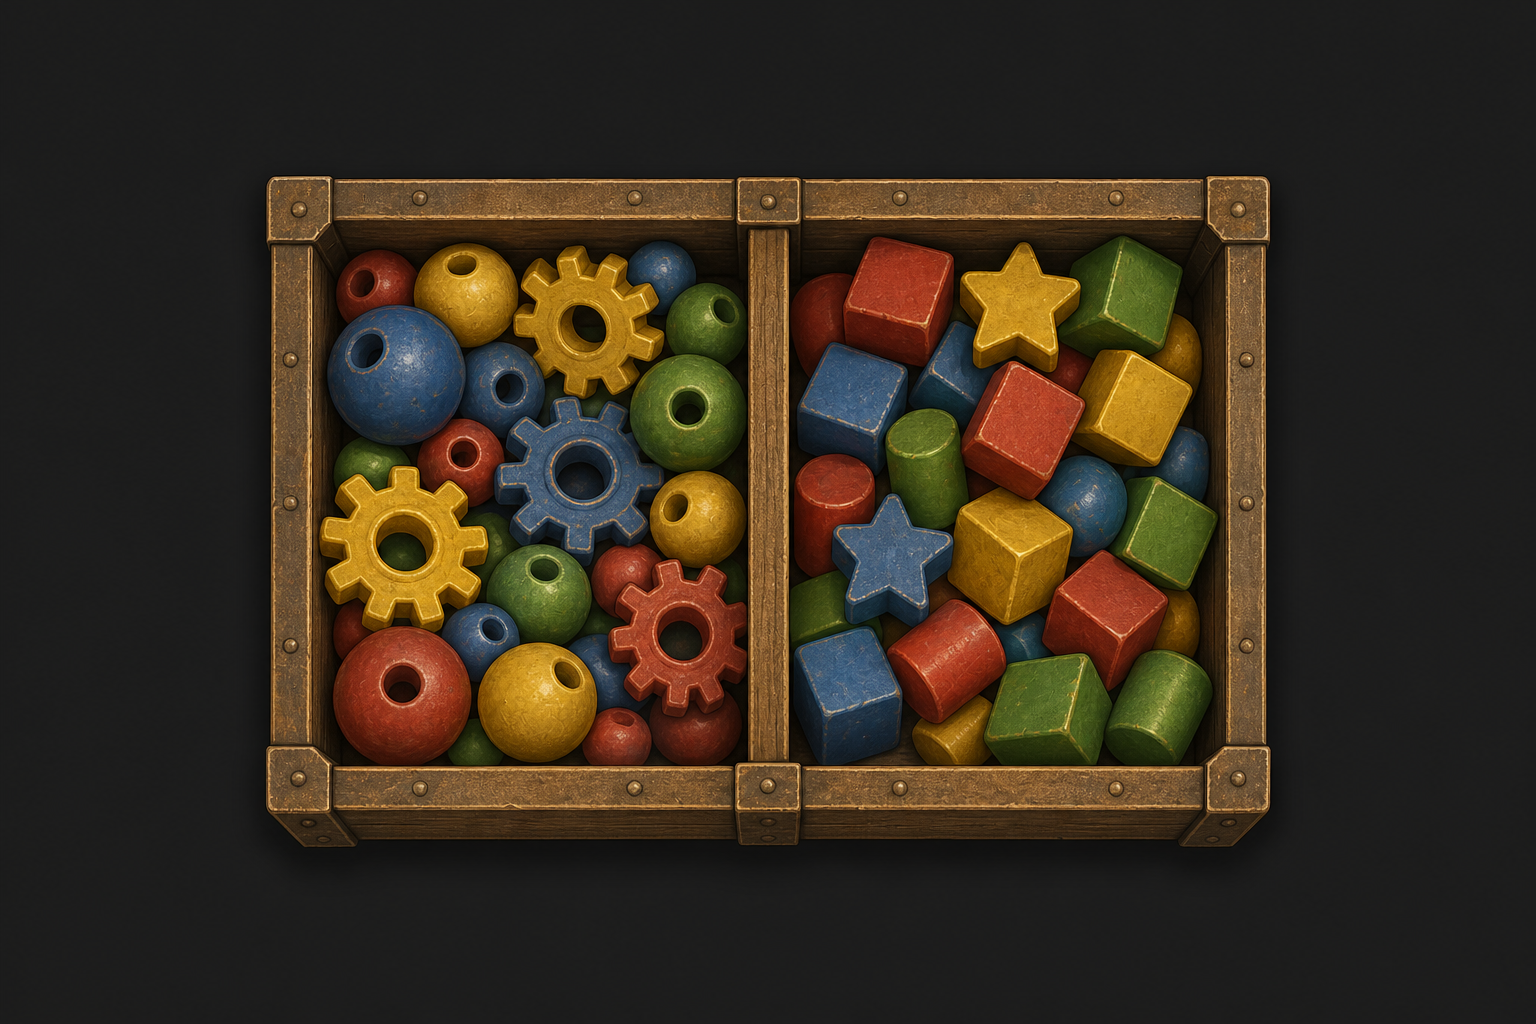
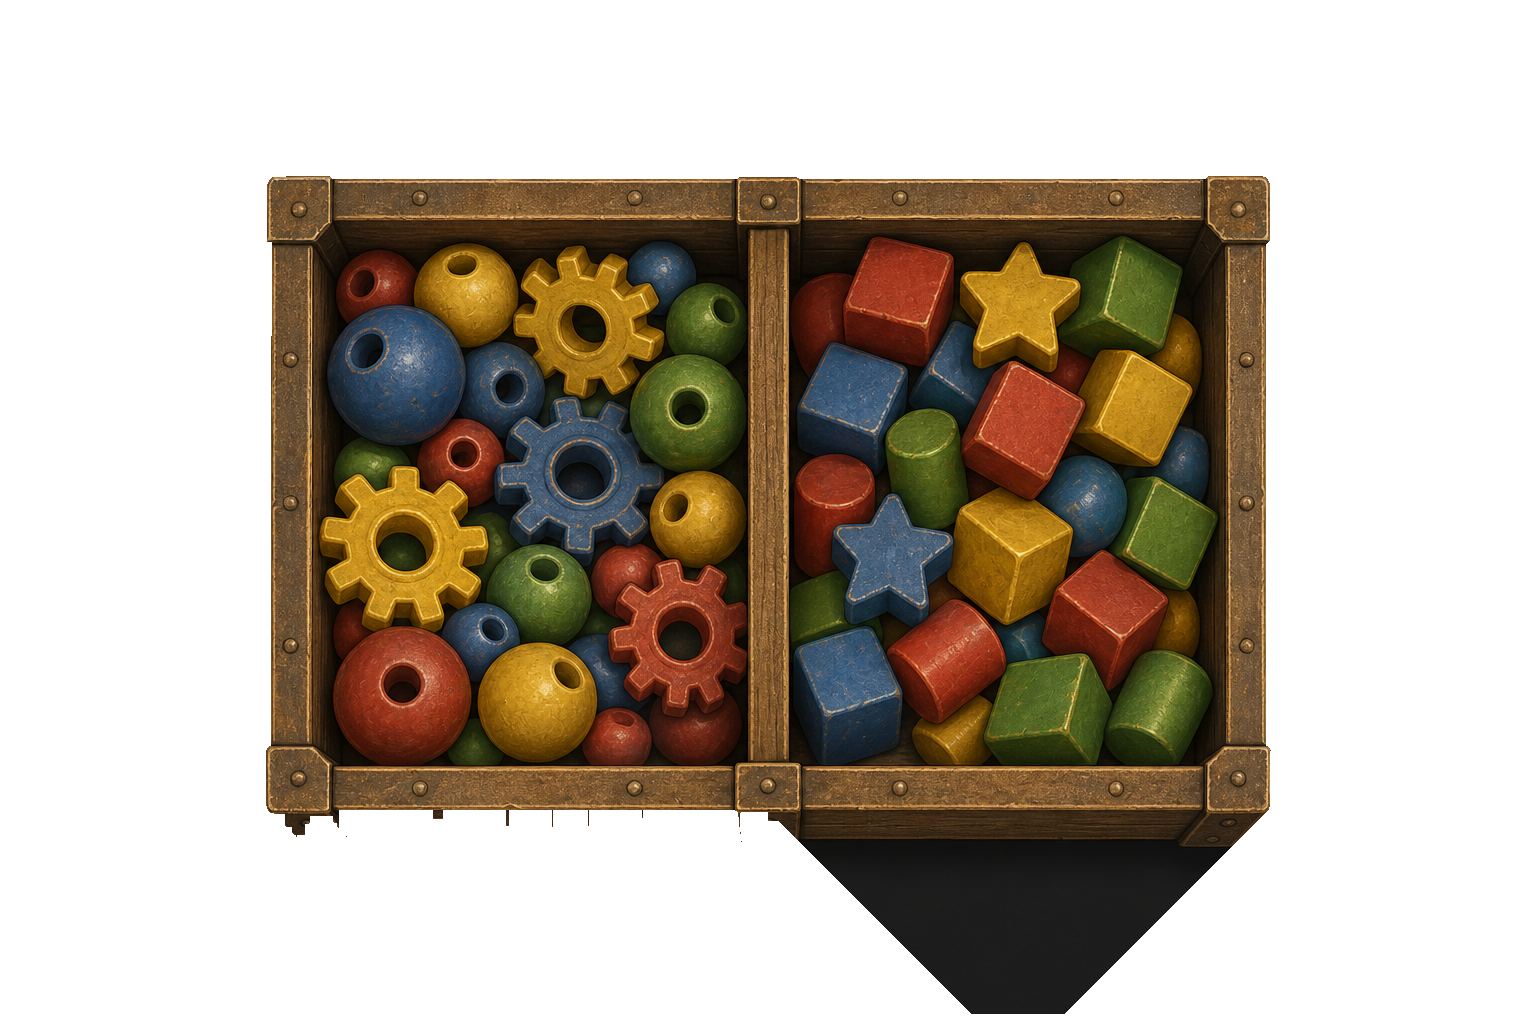
d

diff --git a/index.html b/index.html
@@ -2136,7 +2136,7 @@
   function ensureFactory3Processed(){
     for(const k of ['obs_organizer','obs_longshelf','obs_lshelf','obs_box','obs_box2']){
       if(FACTORY3_IMGCACHE[k]) continue;
-      const im=IMG[FACTORY3_PATHS[k]]; if(im&&im.complete){ FACTORY3_IMGCACHE[k]=stripDarkBg(im); FACTORY3_SHAPEGRID[k]=buildShapeGrid(FACTORY3_IMGCACHE[k],FACTORY3_CELL); }
+      const im=IMG[FACTORY3_PATHS[k]]; if(im&&im.complete){ FACTORY3_IMGCACHE[k]=stripSolidBg(im,34,false); FACTORY3_SHAPEGRID[k]=buildShapeGrid(FACTORY3_IMGCACHE[k],FACTORY3_CELL); }
     }
   }
   let factory3Baked=null, _ogFactory3=null, _ogwFactory3=0, FACTORY3_OBJS=[];
